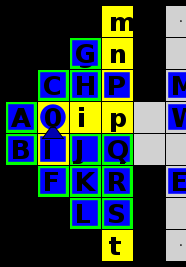
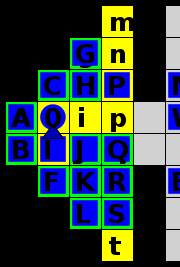
align figures in results

Changed region(s): [[0.0278, 0.0, 0.75, 0.9888], [0.8611, 0.0, 1.0, 0.9888], [0.4167, 0.3895, 0.4722, 0.4794]]

diff --git a/project/article/content/results.tex b/project/article/content/results.tex
@@ -14,20 +14,20 @@ First we illustrate two different runs; one with simple goal prioritisation (\cr
   \centering
   \begin{minipage}{.30\columnwidth}
     \centering
-    \includegraphics[height=3cm]{graphics/simple_priority_block.PNG}
-    \caption{\label{fig:simple priority}Simple goal prioritisation.}
+    \includegraphics[height=3cm]{graphics/no_priority_block.png}
+    \caption{\label{fig:no priority}Arbi\-tra\-ry prioritisation.}
   \end{minipage}%
-  \hspace{20pt}%
+  \hspace{10pt}%
   \begin{minipage}{.30\columnwidth}
     \centering
-    \includegraphics[height=3cm]{graphics/no_priority_block.png}
-    \caption{\label{fig:no priority}No goal prioritisation.}
+    \includegraphics[height=3cm]{graphics/simple_priority_block.PNG}
+    \caption{\label{fig:simple priority}Simple prioritisation.}
   \end{minipage}%
-  \hspace{20pt}%
+  \hspace{10pt}%
   \begin{minipage}{.30\columnwidth}
     \centering
     \includegraphics[height=3cm]{graphics/complex_priority.png}
-    \caption{\label{fig:no priority}No goal prioritisation.}
+    \caption{\label{fig:no priority}Comp\-lex prioritisation.}
   \end{minipage}
 \end{figure}
 
